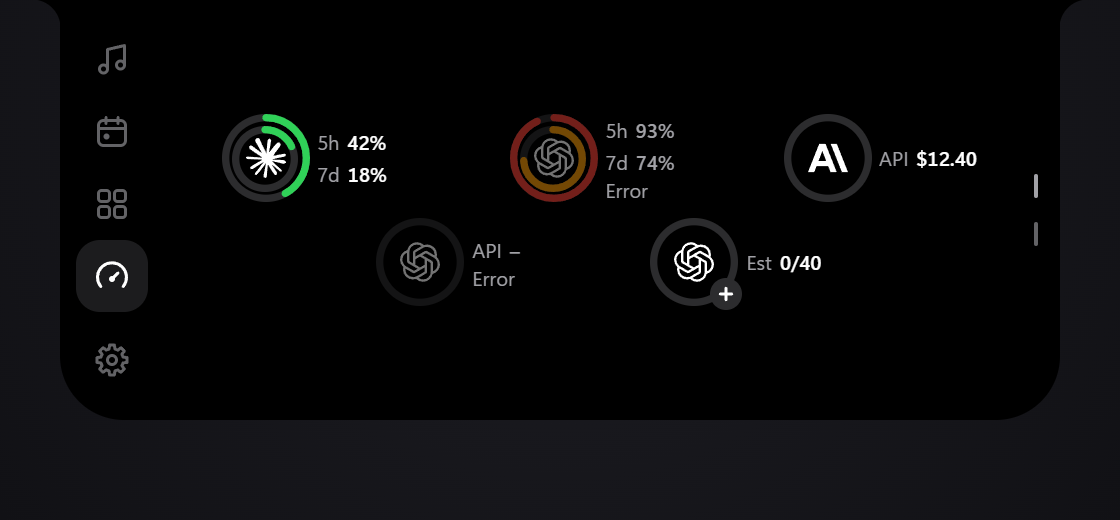
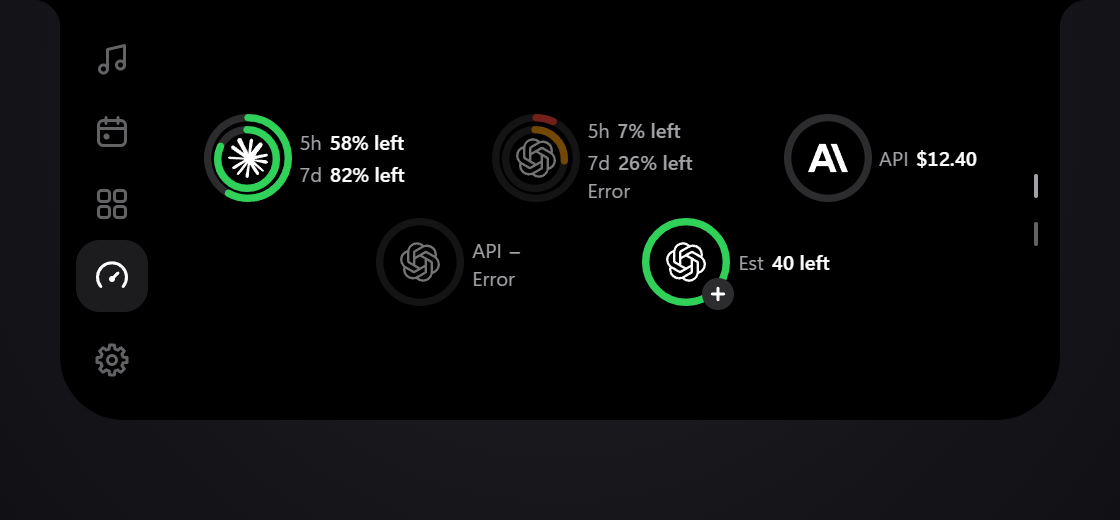
fix(ui): show AI usage as what is left
Values read "64% left" instead of the share used, and the rings drain as quota
runs out. Colours still warn from the share used.

Changed region(s): [[0.1562, 0.2154, 0.375, 0.4], [0.4375, 0.2154, 0.625, 0.4], [0.5625, 0.4, 0.75, 0.6154]]

diff --git a/src/usage-rings.ts b/src/usage-rings.ts
@@ -3,7 +3,7 @@
  * 5-hour and weekly quotas into concentric rings; other providers keep one ring.
  */
 import { SVG_ICONS } from './icons.js';
-import { createRing, meterWindow, providerInitial, providerMark, usageTone, type Ring } from './rings.js';
+import { createRing, meterWindow, providerInitial, providerMark, remainingPct, usageTone, type Ring } from './rings.js';
 import { resetSpan } from './usage.js';
 import type { Meter } from './types.js';
 
@@ -109,8 +109,9 @@ export function ringMeters(meters: Meter[]): Meter[] {
 export function meterDetails(meter: Meter, nowSeconds = Date.now() / 1000, name = meterWindow(meter)): string {
   const parts: string[] = [];
   if (name) parts.push(name);
-  if (meter.usedPct != null && Number.isFinite(meter.usedPct)) parts.push(`${Math.round(meter.usedPct)}% used`);
-  if (meter.id === 'chatgpt' && meter.count != null && meter.cap != null) parts.push(`${meter.count} of ${meter.cap} messages`);
+  const left = remainingPct(meter.usedPct);
+  if (left != null) parts.push(`${left}% left`);
+  if (meter.id === 'chatgpt' && meter.count != null && meter.cap != null) parts.push(`${Math.max(0, meter.cap - meter.count)} of ${meter.cap} messages left`);
   if (meter.spentUsd != null && Number.isFinite(meter.spentUsd)) parts.push(`$${meter.spentUsd.toFixed(2)} spent this month`);
   const reset = resetSpan(meter.resetsAt, nowSeconds);
   if (reset) parts.push(reset === 'now' ? 'resetting now' : meter.id === 'chatgpt' ? `next slot frees in ${reset}` : `resets in ${reset}`);
@@ -122,8 +123,9 @@ export function meterDetails(meter: Meter, nowSeconds = Date.now() / 1000, name 
 }
 
 function valueText(meter: Meter): string {
-  if (meter.id === 'chatgpt' && meter.count != null && meter.cap != null) return `${meter.count}/${meter.cap}`;
-  if (meter.usedPct != null && Number.isFinite(meter.usedPct)) return `${Math.round(meter.usedPct)}%`;
+  if (meter.id === 'chatgpt' && meter.count != null && meter.cap != null) return `${Math.max(0, meter.cap - meter.count)} left`;
+  const left = remainingPct(meter.usedPct);
+  if (left != null) return `${left}% left`;
   if (meter.spentUsd != null && Number.isFinite(meter.spentUsd)) return `$${meter.spentUsd.toFixed(2)}`;
   return '\u2013';
 }
@@ -211,7 +213,8 @@ export function renderUsageRings(list: HTMLElement, meters: Meter[], onLog: () =
     const { key, markup } = glyphFor(drawn[0]);
     if (cell.glyphKey !== key) { cell.glyph.innerHTML = markup; cell.glyphKey = key; }
     drawn.forEach((meter, meterIndex) => {
-      rings[meterIndex].set(meter.usedPct, usageTone(meter.usedPct));
+      // The ring drains as quota runs out; its colour still warns from how much is used
+      rings[meterIndex].set(remainingPct(meter.usedPct), usageTone(meter.usedPct));
       setIfChanged(lines[meterIndex].window, meterWindow(meter));
       setIfChanged(lines[meterIndex].value, valueText(meter));
     });

diff --git a/src/tests/rings.test.ts b/src/tests/rings.test.ts
@@ -9,6 +9,7 @@ import {
   providerInitial,
   providerMark,
   ringDashOffset,
+  remainingPct,
   ringGeometry,
   usageTone,
 } from '../rings.js';
@@ -43,6 +44,20 @@ describe('ring geometry', () => {
     expect(clampPct(null)).toBeNull();
     expect(clampPct(undefined)).toBeNull();
     expect(clampPct(Infinity)).toBeNull();
+  });
+});
+
+describe('remaining quota', () => {
+  it('turns usage into what is left', () => {
+    expect(remainingPct(42)).toBe(58);
+    expect(remainingPct(0)).toBe(100);
+    expect(remainingPct(120)).toBe(0);
+    expect(remainingPct(99.6)).toBe(0);
+  });
+  it('keeps unknown usage unknown', () => {
+    expect(remainingPct(null)).toBeNull();
+    expect(remainingPct(undefined)).toBeNull();
+    expect(remainingPct(Number.NaN)).toBeNull();
   });
 });
 

diff --git a/src/rings.ts b/src/rings.ts
@@ -41,6 +41,12 @@ export function ringDashOffset(pct: number | null | undefined, c: number): numbe
 }
 
 /** Threshold colour for a quota: the logo names the provider, the colour says how close the limit is */
+/** How much of a quota is left, as a whole percent. Unknown usage stays unknown. */
+export function remainingPct(usedPct: number | null | undefined): number | null {
+  const used = clampPct(usedPct);
+  return used === null ? null : Math.round(100 - used);
+}
+
 export function usageTone(pct: number | null | undefined): RingTone {
   const value = clampPct(pct);
   if (value === null) return 'none';

diff --git a/src/tests/usage-rings.test.ts b/src/tests/usage-rings.test.ts
@@ -97,6 +97,6 @@ describe('card state', () => {
 
   it('states the window, value and reset in the details', () => {
     const details = meterDetails({ ...meter('a', 'claude', 'Claude 5 h'), usedPct: 42, resetsAt: 1000 + 8130 }, 1000);
-    expect(details).toBe('5h, 42% used, resets in 2h 15m, official');
+    expect(details).toBe('5h, 58% left, resets in 2h 15m, official');
   });
 });

diff --git a/DESIGN.md b/DESIGN.md
@@ -21,7 +21,7 @@ Surface #000000; raised #1c1c1e / hover #2c2c2e / active #3a3a3c. Ink #ffffff, s
 
 Every value that has a range is drawn, not written. Rings come from `src/rings.ts` (pure geometry, tones and labels, unit tested; `createRing` is the one DOM builder): a track one tone step above the surface (`--raise-hover`), a round-capped fill starting at 12 o'clock, and the value changing by dash offset so it animates on `--spring-enter` over `--d-shell`. An empty or missing value is the track alone (a round cap at zero would draw a dot). Reduced motion sets the change instantly.
 
-- AI usage: one card per connected provider, two across. The 72px double ring (6px strokes) has the 5h window outside and the weekly window inside; a single-window provider keeps one ring. The official mark sits in the centre at 32px. Two compact lines beside it give window and value (`5h 62%`, `7d 31%`, `API $12.40`, `Est 31/40`). Each ring has its own threshold tone: green below 70%, amber from 70%, red from 90%. A fifth card shrinks the rings to 44px in three columns so two rows still fit. A connected source with a stale or failed reading stays visible, dimmed to 45% with one word beside its values (`Stale`, `Error`, `Unavailable`) and a dash where there is no value. Sources that are not connected do not appear, and the AI section leaves the Usage tab when none is connected. A model-scoped window (`Opus`) is never drawn as the general weekly, and both rings come from one quota bucket. Reset times, other windows and source or error details live in the tooltip and accessible name. The ChatGPT estimate's ring is itself the "Log message" button, marked by a small plus.
+- AI usage: one card per connected provider, two across. The 72px double ring (6px strokes) has the 5h window outside and the weekly window inside; a single-window provider keeps one ring. The official mark sits in the centre at 32px. Two compact lines beside it give window and what is left (`5h 38% left`, `7d 69% left`, `API $12.40`, `Est 9 left`). The rings drain as quota runs out. Each ring has its own threshold tone from the share used: green below 70% used, amber from 70%, red from 90%. A fifth card shrinks the rings to 44px in three columns so two rows still fit. A connected source with a stale or failed reading stays visible, dimmed to 45% with one word beside its values (`Stale`, `Error`, `Unavailable`) and a dash where there is no value. Sources that are not connected do not appear, and the AI section leaves the Usage tab when none is connected. A model-scoped window (`Opus`) is never drawn as the general weekly, and both rings come from one quota bucket. Reset times, other windows and source or error details live in the tooltip and accessible name. The ChatGPT estimate's ring is itself the "Log message" button, marked by a small plus.
 - System: CPU, memory and each GPU as 56px rings with the value inside, the name and a 56x16 sparkline under. Load is ink until it is high (amber 70%, red 90%), so an idle machine is not the loudest thing on screen. Unavailable is a dim track with a dash. A status dot beside the heading replaces the "Live · 14:02" text.
 - Today: battery as a 72px ring with the level inside and the bolt above it while charging; green charging, red below 20% on battery, ink otherwise. A line under it only when it adds information (`47m left`). A desktop shows a plug in an empty track.
 - Timer: presets 5 / 15 / 25 as numeric chips on the left, a 140px ring in the centre with tabular digits and the title with a status dot, and play/pause, stopwatch and reset as icon buttons on the right. Countdowns drain the ring; a stopwatch sweeps it once a minute. The ring follows the 250ms tick linearly instead of springing. Play with nothing running starts the last preset.
